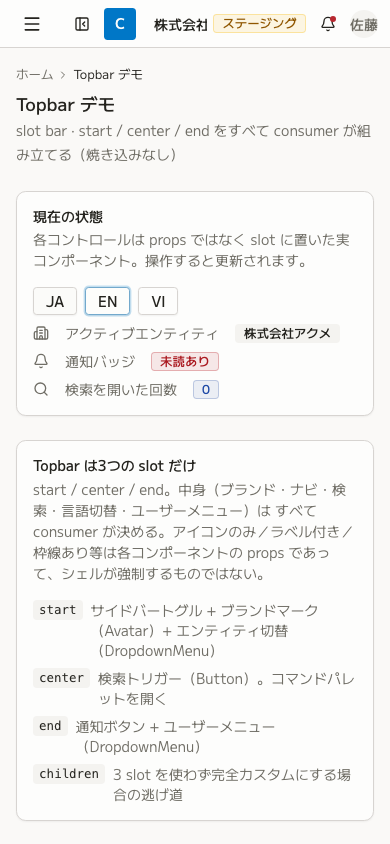
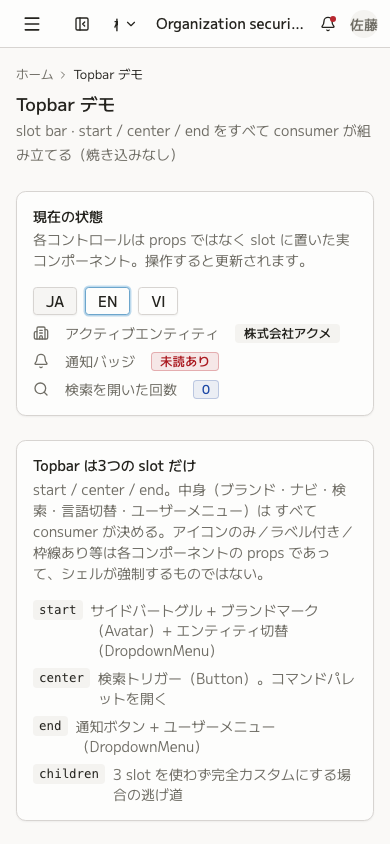
fix(docs): compose the topbar demo so 320px keeps both start controls
Clears the last frame-geometry cell; the allowlist is now empty (0 frames).

The start slot was allocated 25px of a 198px bar at 320, and the entity
switcher inside it was clipped while staying focusable — a keyboard user tabs
to a control they cannot see (WCAG 2.2 SC 2.4.7). Two causes, both in how this
frame composes the bar rather than in the shell:

`end` is `flex: 0 0 auto`, so whatever sits there is subtracted from `start`
before `start` gets a say — and the ambient "ステージング" chip alone claimed 93
of those 198px. It, and the decorative brand mark in `start`, now appear from
sm up: an ambient status label is the first thing a compact bar drops.

The truncation contract reaches only the LAST child of `start` (here the screen
title, which was correctly shrinking to 0), and `Button` ships `shrink-0` — so
the switcher sitting mid-slot kept its full 138px. It is now `flex-1` below sm
with its label in a `truncate` span.

`min-w-11` on it is not decoration: with plain `min-w-0` flex handed the
switcher 20px, under the 24px SC 2.5.8 minimum, which would have traded 2.4.7
for 2.5.8. At 320 the slot now measures 126px with a 44px switcher and a 38px
elided title.

The title is deliberately NOT hidden at compact widths:
scripts/topbar-collision-visual.mjs asserts it has geometry and keeps
overflow/ellipsis/nowrap at 390, and that lane still passes (3 viewports × 3
locales) — its evidence screenshots are regenerated here.
[…]

Changed region(s): [[0.4, 0.0, 0.8, 0.0616], [0.2462, 0.0, 0.3692, 0.0616]]

diff --git a/mcp/src/data/components.ts b/mcp/src/data/components.ts
@@ -1031,6 +1031,7 @@ export default function Shell() {
       "DO render Topbar inside `AppShell`'s `topbar` slot (or any `<header>`). For a non-three-cluster layout, pass `children` and lay it out yourself.",
       "DO decide, explicitly, what happens to the `center` slot at 1100px and below. It is REMOVED there by default (`--topbar-center-compact-display: none`, gh#244) so it cannot cover the start or end clusters when a 16rem sidebar is docked — which also means a global search trigger in `center` is gone on tablets AND phones. This default arrived in 18.6.0 and changed behaviour for consumers who touched nothing but their lockfile. If your center content already has a compact presentation (an icon-only search trigger), opt back in globally with `:root { --topbar-center-compact-display: flex; }`; if it does not, move the trigger into `end` for compact widths. Never re-create either behaviour with a page-local media query.",
       "DO rely on the built-in shrink contract instead of hand-tuning widths: the bar never exceeds its shell allocation, `start` shrinks first and `center` yields its whole box, each cluster CLIPS its own overflow (so a long tenant/brand string can never spill over a sibling or leak a horizontal document scroll), and `end` keeps its natural width anchored inline-end — the locale picker and user menu stay visible at 1024px with a 16rem sidebar. If a label must degrade gracefully rather than be cut, give THAT element `truncate`/`text-overflow` yourself; don't add `overflow`/`flex` overrides to the slots.",
+      'KNOW the shrink contract reaches only the LAST child of `start` — and `Button` ships `shrink-0`, so any Button you put mid-slot (the classic entity switcher, with a brand mark before it and a screen title after) keeps its full width while the cluster clips it. Clipped, but still focusable: a keyboard user tabs to a control they cannot see (SC 2.4.7). Give such a control `min-w-11 flex-1` at compact widths so it takes the leftover room without dropping under the 44px touch floor, and wrap its label in `<span className="truncate">`. Budget the `end` cluster too — it is `flex: 0 0 auto`, so an ambient status chip there is subtracted from `start` before `start` gets a say (a 93px environment Badge left `start` 25px of a 198px bar at 320). Hide ambient chips below `sm`.',
     ],
     useCases: [
       "Admin shell: `start` = sidebar toggle + brand mark (`Avatar`) + an entity switcher (`DropdownMenu` around a `Button`); `center` = a `Button` search trigger; `end` = `AppSettingPicker` (locale) + a notifications `Button` + a user `DropdownMenu`.",

diff --git a/docs/layout/topbar.tsx b/docs/layout/topbar.tsx
@@ -97,13 +97,21 @@ export default function Demo() {
       >
         {collapsed ? <PanelLeftOpen /> : <PanelLeftClose />}
       </Button>
-      <Avatar className="rounded-md">
+      {/* Decorative mark — hidden below sm so the budget goes to the two real controls. */}
+      <Avatar className="hidden rounded-md sm:flex">
         <AvatarFallback className="bg-primary text-primary-foreground font-bold">C</AvatarFallback>
       </Avatar>
       <DropdownMenu>
         <DropdownMenuTrigger asChild>
-          <Button variant="ghost" size="sm">
-            {activeEntity.name}
+          {/* Button ships `shrink-0`, and only the LAST child of the start slot gets the built-in
+              truncation contract — so a switcher sitting mid-slot has to be told it may shrink, or
+              it keeps its full width and the slot clips it while it stays focusable. `flex-1
+              min-w-11` below sm lets it take just the leftover room without ever dropping under
+              the 44px touch floor — plain `min-w-0` let flex hand it 20px, which is under the 24px
+              SC 2.5.8 minimum, trading one failure for another. `truncate` puts the ellipsis on
+              the label rather than letting it spill. */}
+          <Button variant="ghost" size="sm" className="min-w-11 flex-1 sm:min-w-0 sm:flex-none">
+            <span className="truncate">{activeEntity.name}</span>
             <ChevronDown />
           </Button>
         </DropdownMenuTrigger>
@@ -145,7 +153,11 @@ export default function Demo() {
   // end · notifications + user menu, both consumer-composed.
   const end = (
     <>
-      <Badge tone="warning" className="text-xs">
+      {/* The end slot is `flex: 0 0 auto` — whatever sits here is taken out of the start slot's
+          budget before it gets a say. At 320 this environment chip alone claimed 93 of the bar's
+          198px, squeezing start to 25px and clipping the entity switcher inside it. An ambient
+          status label is the first thing a compact bar drops, so it appears from sm up. */}
+      <Badge tone="warning" className="hidden text-xs sm:inline-flex">
         ステージング
       </Badge>
       <Button

diff --git a/CHANGELOG.md b/CHANGELOG.md
@@ -62,8 +62,8 @@ and this project adheres to [Semantic Versioning](https://semver.org/spec/v2.0.0
 
 ### Fixed
 
-- **Three controls could not be reached at narrow viewports (WCAG 2.2 SC 2.1.1 / 2.4.7 / 1.4.10).**
-  Found by the frame-geometry sweep across 154 frames × 8 widths.
+- **Controls that narrow viewports were hiding (WCAG 2.2 SC 2.1.1 / 2.4.7 / 1.4.10).** Found by the
+  frame-geometry sweep across 154 frames × 8 widths, which now reports zero.
   - `Rating` laid its stars in a non-wrapping row. A 10-star scale needs ~276px of hit area; a
     320px viewport offers ~212 inside a card, so the last stars were painted outside the surface
     with nothing to scroll them into view — unclickable and invisible. The row now wraps, which is
